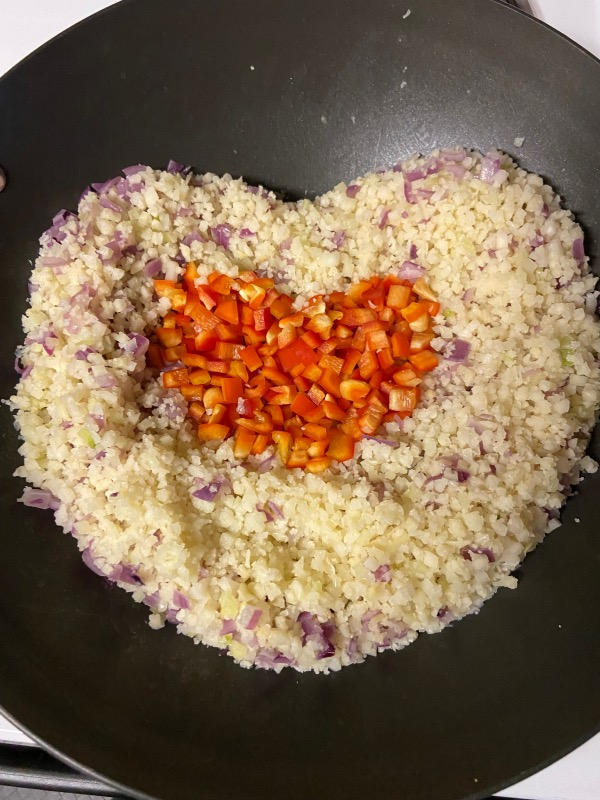
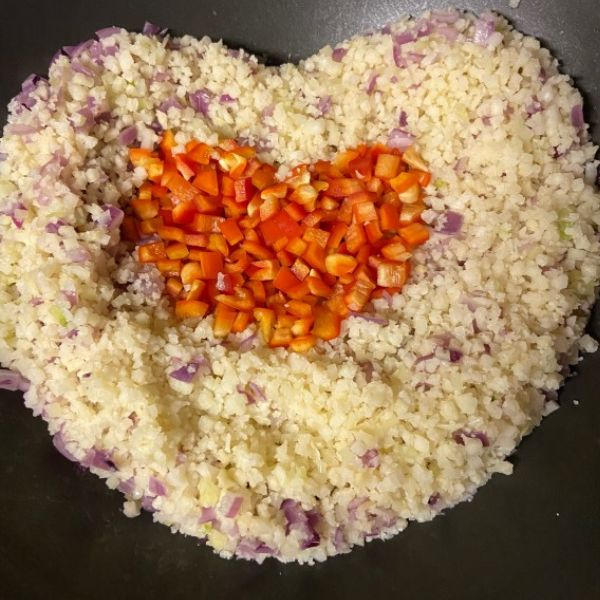
crabmeat

diff --git a/pages/lifestyle.html b/pages/lifestyle.html
@@ -63,13 +63,13 @@
                             </div>
                         </div>
                         <div class="carousel-item">
-                            <img src="../images/crabwrice.jpg" class="d-block w-100" alt="cauliflower fried rice with crabmeat">
+                            <img src="../images/crabmeat.jpg" class="d-block w-100" alt="cauliflower fried rice with crabmeat">
                             <div class="carousel-caption d-none d-md-block">
                                 <h5>Cauliflower Fried Rice with Crabmeat</h5>
                             </div>
                         </div>
                         <div class="carousel-item">
-                            <img src="../images/caulirice.jpg" class="d-block w-100" alt="cauliflower fried rice with chicken">
+                            <img src="../images/yummychicken.jpg" class="d-block w-100" alt="cauliflower fried rice with chicken">
                             <div class="carousel-caption d-none d-md-block">
                                 <h5>Cauliflower Fried Rice with Chicken</h5>
                             </div>    
